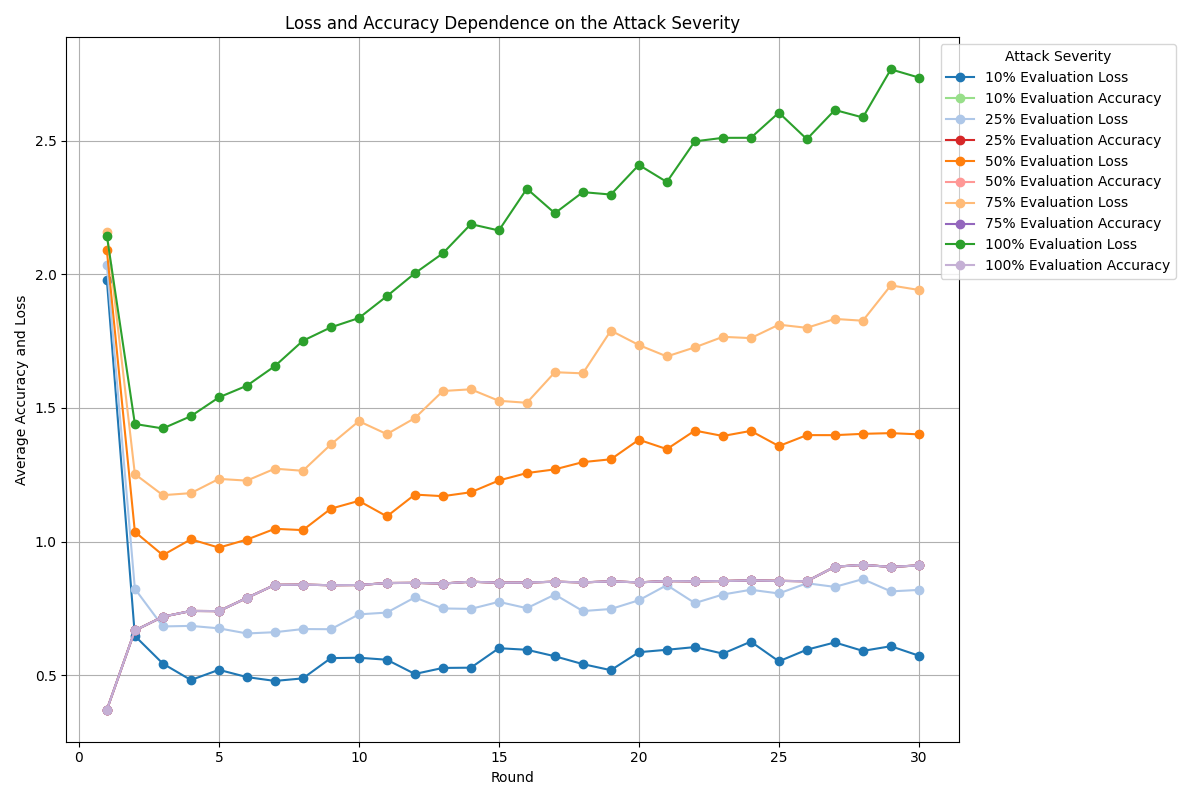
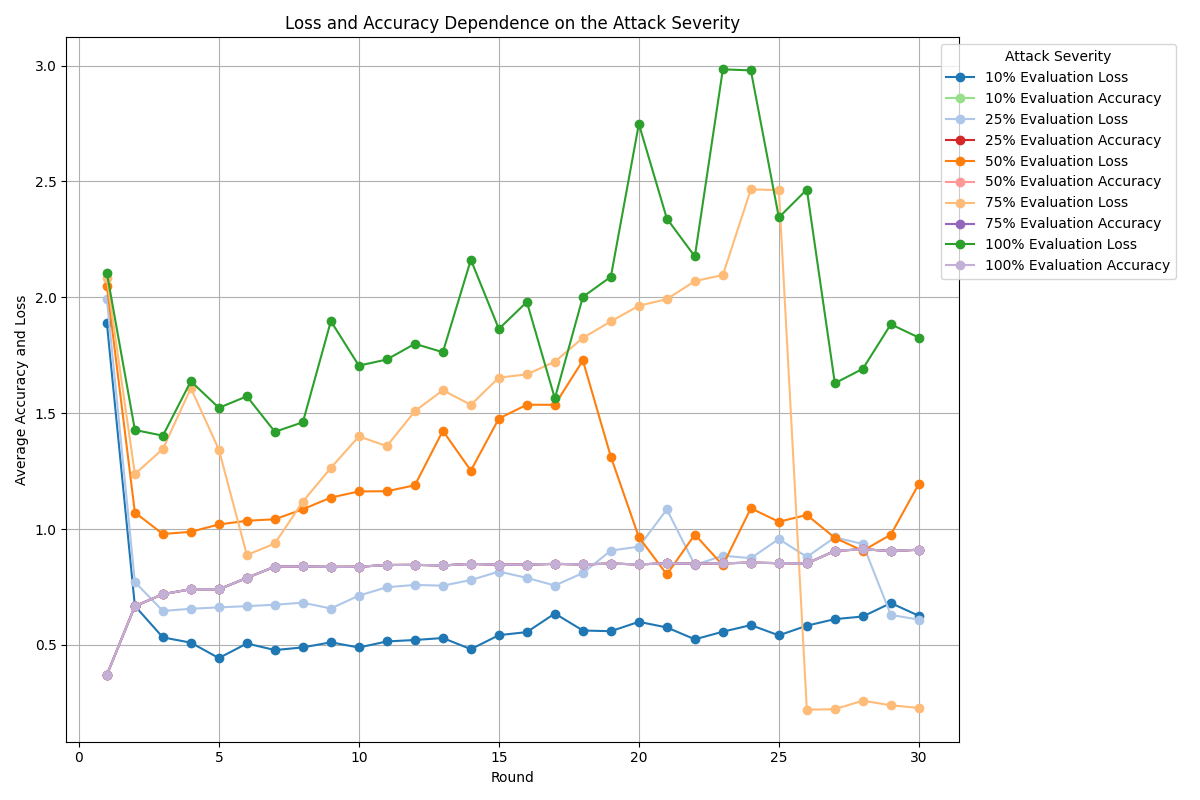
loss and accuracy update

diff --git a/PID_graph.py b/PID_graph.py
@@ -173,7 +173,7 @@ plt.show()
 plt.figure( figsize = (12, 8) )
 
 for idx, level in enumerate(attack_levels):
-    file_path = f"{folder}/fl_metrics_{level}.csv"
+    file_path = f"{folder}/fl_metrics_pid_{level}.csv"
 
     try:
         df = pd.read_csv(file_path)
